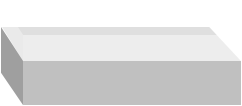
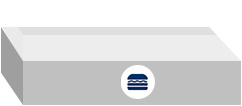
Pause screen

Changed region(s): [[0.4917, 0.5943, 0.6653, 0.934]]

diff --git a/src/main/resources/static/js/Preloader.js b/src/main/resources/static/js/Preloader.js
@@ -51,9 +51,9 @@ BlueRoom.Preloader.prototype = {
 		this.load.image('stationBg', 'images/blue_bg.png');
 
 		this.load.image('managerBg', 'images/manager_view_bg.png');
-		this.load.image('sandwichStation', 'images/sandwich_counter.png');
-		this.load.image('coffeeStation', 'images/coffee_counter.png');
-		this.load.image('bakeryStation', 'images/bakery_counter.png');
+		this.load.image('sandwichStation', 'images/sandwich_station_counter.png');
+		this.load.image('coffeeStation', 'images/coffee_station_counter.png');
+		this.load.image('bakeryStation', 'images/bakery_station_counter.png');
 
 		//this.load.image('sandwichBg', 'images/sandwich_bg.png');
 		this.load.image('sandwichBg', 'images/sandwich/sandwich_bg.png');
@@ -62,8 +62,8 @@ BlueRoom.Preloader.prototype = {
 
 		//PAUSE SCREEN
 		this.load.image('pauseButton', 'images/white_pause_button.png');
-		this.load.image('pauseScreen', 'images/pause_test_screen.png');
-		this.load.image('resumeGameButton', 'images/resume_game_button.png');
+		this.load.image('pauseScreen', 'images/pause_screen.png');
+		this.load.image('resumeGameButton', 'images/resume_button.png');
 		this.load.image('restartGameButton', 'images/restart_game_button.png');
 		this.load.image('quitGameButton', 'images/quit_game_button.png');
 

diff --git a/src/main/resources/static/js/GameManagerView.js b/src/main/resources/static/js/GameManagerView.js
@@ -37,8 +37,8 @@ BlueRoom.Game.prototype.createManager = function () {
     this.sandwichStation = this.add.sprite(652, 140, 'sandwichStation');
     this.bakeryStation = this.add.sprite(400, 140, 'bakeryStation');
     this.coffeeStation = this.add.sprite(130, 140, 'coffeeStation');
-    this.bakeryStation.visible = false;
-    this.coffeeStation.visible = false;
+    // this.bakeryStation.visible = false;
+    // this.coffeeStation.visible = false;
 
     var smallstyle = { font: "10px Roboto", fill: "#000000", wordWrap: true, wordWrapWidth: 100, align: "center" };
     this.employeeBreakStation = this.add.sprite(10, 450, 'employeeBreakStation');
